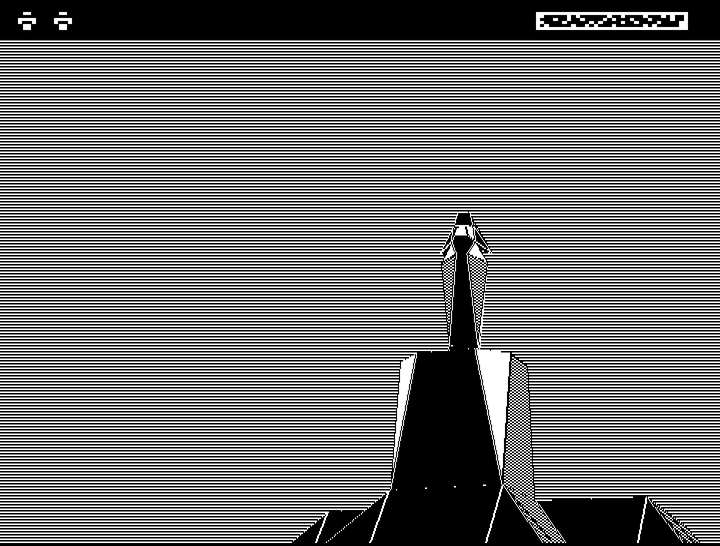
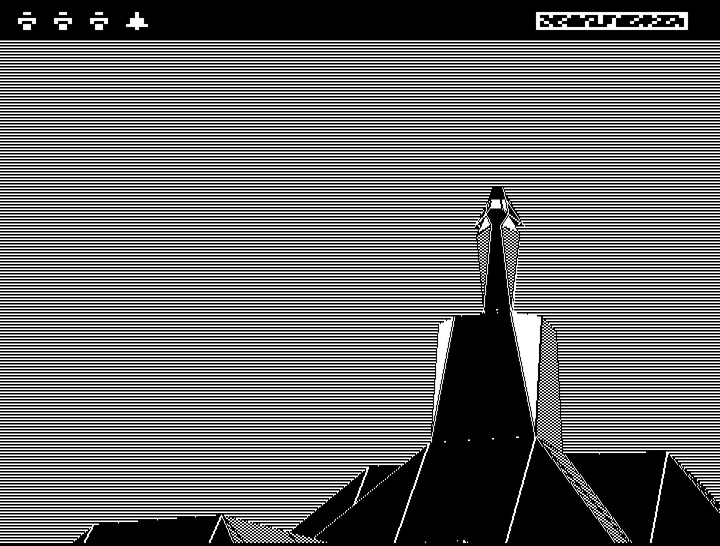
Show the Sentinel from a new game and update the beta's test status
Retake the scanner screenshot from the start of a new game on
landscape 0000: the whole Sentinel on its hill, turned to look down at
you. Say that beta8 was tested on a Lisa 2/5 with a Floppy Emu, not yet
on other Lisas or real drives, and ask for testers. "Not supported" is
now "Not supported yet".

diff --git a/_projects/lisa-sentinel.md b/_projects/lisa-sentinel.md
@@ -39,8 +39,8 @@ screenshots:
     alt: An aerial view of landscape 0000, a checkered landscape under a starry sky
     caption: Start at landscape 0000. Each landscape opens with a view from above; press any key to begin.
   - file: sentinel-scanner
-    alt: The Sentinel on its tower, turned to face you, with the scanner at the top right of the screen full of static
-    caption: The Sentinel is facing you, so the scanner at the top right fills with static. While it can see your square, it drains your energy, one unit at a time. Get out of its sight, or press H to hyperspace.
+    alt: The Sentinel on its tower at the top of a hill, looking down at you, with the scanner at the top right of the screen full of static
+    caption: The Sentinel has turned to look down at you, so the scanner at the top right fills with static. While it can see your square, it drains your energy, one unit at a time. Get out of its sight, or press H to hyperspace.
   - file: overview
     alt: An overview of the whole landscape with its trees, seen from above
     caption: Press M while looking at clear sky to see the whole landscape from above and plan your climb.
@@ -94,11 +94,11 @@ Start at landscape 0000. Absorb trees for energy, stack boulders, create robots 
     <dt>Screen</dt><dd>The standard 720 &times; 364 display</dd>
     <dt>Input</dt><dd>Lisa keyboard and mouse</dd>
     <dt>Sound</dt><dd>The Lisa's built-in speaker</dd>
-    <dt>Not supported</dt><dd>The Lisa 1 and its Twiggy drives, the Macintosh XL's 3A ROM, and Lisas with the screen modification kit</dd>
+    <dt>Not supported yet</dt><dd>The Lisa 1 and its Twiggy drives, the Macintosh XL's 3A ROM, and Lisas with the screen modification kit</dd>
     <dt>In a browser</dt><dd>Any current desktop or mobile browser</dd>
 </dl>
 
-This is a beta. Beta4 won landscape 0000 on my Lisa 2/5, and beta5 played well there too. Since then, only beta7b's title music has been checked on the Lisa; everything else that changed has so far been checked in the emulator.
+This is a beta. Beta8 has been tested extensively on my Lisa 2/5, booting from a Floppy Emu, but not yet on other Lisas or from a real floppy drive. If you can help test it, or have any feedback at all, I'd really appreciate it: write to [{{ site.email }}](mailto:{{ site.email }}).
 
 ## Downloads
 
